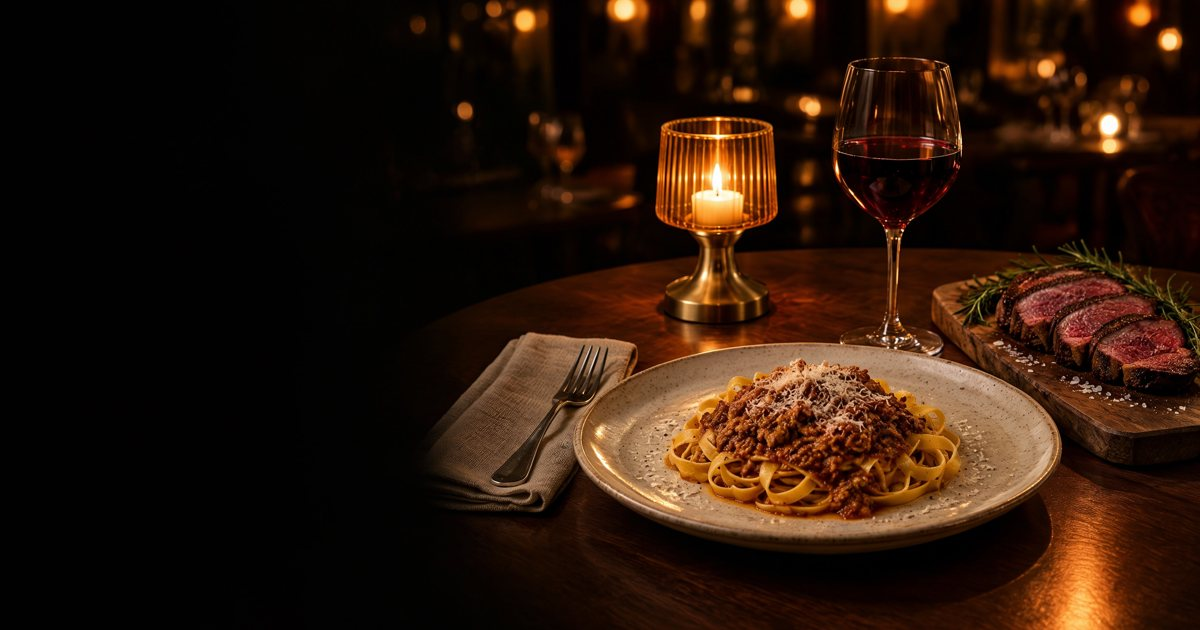
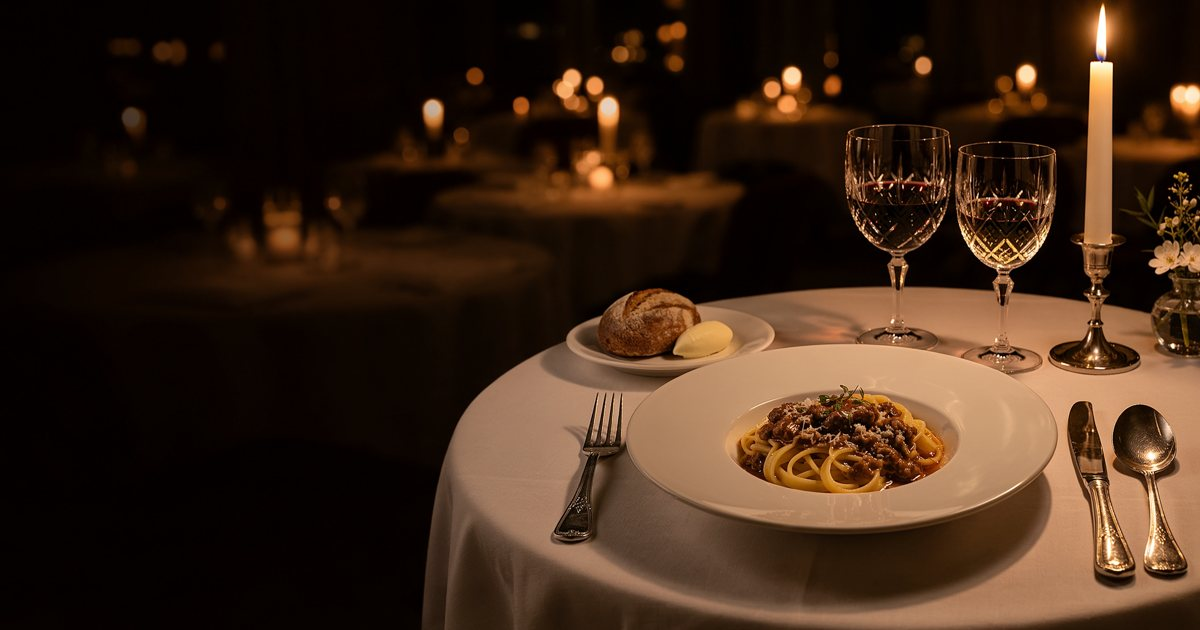
Nuova foto della sala in apertura; piatto che ruota spostato nel manifesto
Claude-Session: https://claude.ai/code/session_01WFYYR7ftMzhZcp4ZESdhHT

diff --git a/css/style.css b/css/style.css
@@ -91,9 +91,9 @@ body.menu-open{overflow:hidden}
 /* HERO */
 .hero{position:relative;min-height:100vh;min-height:100svh;display:flex;align-items:center;overflow:hidden;padding:120px 0 140px}
 .hero__bg{position:absolute;inset:0}
-.hero__bg img{width:100%;height:100%;object-fit:cover;filter:saturate(.95) brightness(.78);transform:scale(1.08);animation:heroZoom 2.6s var(--ease) forwards}
-.hero__bg img{object-position:70% 50%}
-.hero__bg::after{content:"";position:absolute;inset:0;background:linear-gradient(90deg,rgba(12,10,8,.88) 0%,rgba(12,10,8,.7) 38%,rgba(12,10,8,.15) 70%,rgba(12,10,8,.05) 100%)}
+.hero__bg img{width:100%;height:100%;object-fit:cover;filter:none;transform:scale(1.08);animation:heroZoom 2.6s var(--ease) forwards}
+.hero__bg img{object-position:68% 50%}
+.hero__bg::after{content:"";position:absolute;inset:0;background:linear-gradient(90deg,rgba(12,10,8,.7) 0%,rgba(12,10,8,.45) 40%,rgba(12,10,8,0) 65%)}
 @keyframes heroZoom{to{transform:scale(1)}}
 .hero__content{position:relative;z-index:2;width:100%;max-width:calc(var(--max) + var(--gutter)*2);margin:0 auto;padding:0 var(--gutter)}
 .hero__kicker{font-size:11.5px;letter-spacing:.32em;text-transform:uppercase;color:var(--brass);margin-bottom:28px}
@@ -108,7 +108,9 @@ body.menu-open{overflow:hidden}
 .hero__title .line [data-rise]{transform:translateY(105%)}
 .is-loaded .hero__title .line [data-rise]{transform:none}
 
-.plate{position:absolute;z-index:1;right:max(-8vw, calc((100vw - 1440px)/2 - 120px));bottom:-12vw;width:min(44vw,640px);aspect-ratio:1;pointer-events:none}
+.statement{position:relative;overflow:hidden}
+.statement__inner{position:relative;z-index:2}
+.plate{position:absolute;z-index:1;right:-14vw;top:50%;margin-top:calc(min(30vw,480px) / -2);width:min(30vw,480px);aspect-ratio:1;pointer-events:none;opacity:.9}
 .plate__img{width:100%;height:100%;border-radius:50%;box-shadow:0 40px 90px rgba(0,0,0,.6);transform:rotate(-70deg) scale(.7);opacity:0;transition:transform 2.2s var(--ease), opacity 1.2s;will-change:transform}
 .is-loaded .plate__img{opacity:1;transform:rotate(var(--plate-rot,0deg)) scale(1)}
 .plate.is-spinning .plate__img{transition:transform .2s linear}
@@ -231,17 +233,18 @@ body.menu-open{overflow:hidden}
   .brand{align-items:flex-start}
   .nav__end{display:none}
   .nav__toggle{display:block}
-  .plate{width:68vw;right:-16vw;bottom:-22vw}
+  .plate{right:-24vw}
     .footer__grid{grid-template-columns:1fr 1fr 1fr}
   .footer__brand{grid-column:1 / -1}
 }
 @media (max-width: 760px){
   body{font-size:16px}
-  .hero{align-items:flex-start;padding:128px 0 0;min-height:auto;flex-direction:column}
+  .hero{min-height:100vh;min-height:100svh;padding:110px 0 64px;flex-direction:column;justify-content:flex-end;align-items:stretch}
   .hero__title{font-size:clamp(36px,10vw,52px);max-width:none}
   .hero__lead{font-size:17px}
   .hero__actions .btn{flex:1 1 100%}
-  .plate{position:relative;right:auto;bottom:auto;width:118vw;margin:40px 0 -38vw -9vw;align-self:center}
+  .plate{position:relative;right:auto;top:auto;margin:40px auto -26vw;width:78vw}
+  .statement{padding-bottom:0}
   .hero__scroll{display:none}
   .story__grid,.brace__head,.menu__head,.menu__grid,.hours__grid,.visit__head{grid-template-columns:1fr}
   .story{padding-top:96px}
@@ -253,8 +256,8 @@ body.menu-open{overflow:hidden}
   .facts dd{font-size:13px}
   .brace__grid{height:auto}
   .brace__grid .ph{aspect-ratio:4/3}
-  .hero__bg img{object-position:72% 50%}
-  .hero__bg::after{background:rgba(12,10,8,.62)}
+  .hero__bg img{object-position:74% 50%}
+  .hero__bg::after{background:linear-gradient(180deg,rgba(12,10,8,.2) 0%,rgba(12,10,8,.5) 40%,rgba(12,10,8,.92) 100%)}
   .dishes li{grid-template-columns:1fr;gap:2px}
   .statement__title{font-size:29px}
   .footer__name{font-size:26px}

diff --git a/index.html b/index.html
@@ -19,9 +19,9 @@
 <link rel="preconnect" href="https://fonts.googleapis.com">
 <link rel="preconnect" href="https://fonts.gstatic.com" crossorigin>
 <link href="https://fonts.googleapis.com/css2?family=Bodoni+Moda:ital,opsz,wght@0,6..96,400..600;1,6..96,400..500&family=Jost:wght@300;400;500&display=swap" rel="stylesheet">
-<link rel="preload" as="image" href="img/gen-tavola-1600.webp">
+<link rel="preload" as="image" href="img/sala-sera-1600.webp" imagesrcset="img/sala-sera-800.webp 800w, img/sala-sera-1200.webp 1200w, img/sala-sera-1600.webp 1600w, img/sala-sera-2000.webp 2000w" imagesizes="100vw">
 <style>.intro{display:none}</style>
-<link rel="stylesheet" href="css/style.css?v=202611171407p">
+<link rel="stylesheet" href="css/style.css?v=202611171457s">
 <script>(function(d){d.classList.add('js');try{if(sessionStorage.getItem('itf-intro'))d.classList.add('intro-seen');sessionStorage.setItem('itf-intro','1')}catch(e){}})(document.documentElement)</script>
 <script type="application/ld+json">
 {
@@ -97,7 +97,7 @@
 <!-- HERO -->
 <section class="hero" id="top">
   <div class="hero__bg" aria-hidden="true">
-    <img src="img/gen-tavola-1600.webp" srcset="img/gen-tavola-800.webp 800w, img/gen-tavola-1200.webp 1200w, img/gen-tavola-1600.webp 1600w" sizes="100vw" alt="" fetchpriority="high">
+    <img src="img/sala-sera-1600.webp" srcset="img/sala-sera-800.webp 800w, img/sala-sera-1200.webp 1200w, img/sala-sera-1600.webp 1600w, img/sala-sera-2000.webp 2000w" sizes="100vw" alt="" fetchpriority="high">
   </div>
   <div class="hero__content">
     <p class="hero__kicker" data-rise>Ristorante · Via di Giù 56 · Lugo</p>
@@ -109,14 +109,6 @@
     <div class="hero__actions" data-rise>
       <a class="btn btn--ghost" href="#menu">Scopri il menù</a>
     </div>
-  </div>
-  <div class="plate" aria-hidden="true">
-    <svg class="steam" viewBox="0 0 200 160" preserveAspectRatio="none">
-      <path d="M60 160 C40 120 80 100 60 60 C45 30 70 15 62 0"/>
-      <path d="M100 160 C80 125 120 95 100 55 C85 25 112 12 104 0"/>
-      <path d="M140 160 C120 120 160 100 140 62 C126 32 150 16 144 0"/>
-    </svg>
-    <img class="plate__img" src="img/piatto-tagliatelle.webp" alt="" width="1000" height="1000">
   </div>
   <a class="hero__scroll" href="#storia" aria-label="Scorri alla storia del ristorante"><span></span></a>
 </section>
@@ -163,6 +155,14 @@
     <span class="ornament" aria-hidden="true"><i></i><b></b><i></i></span>
     <h2 class="statement__title" id="statement-title" data-reveal>Ogni piatto ha il suo tempo:<br><em>la sfoglia al mattino, gli arrosti nel forno per ore.</em></h2>
     <p class="statement__sign">I Tre Fratelli · Lugo di Romagna</p>
+  </div>
+  <div class="plate" aria-hidden="true">
+    <svg class="steam" viewBox="0 0 200 160" preserveAspectRatio="none">
+      <path d="M60 160 C40 120 80 100 60 60 C45 30 70 15 62 0"/>
+      <path d="M100 160 C80 125 120 95 100 55 C85 25 112 12 104 0"/>
+      <path d="M140 160 C120 120 160 100 140 62 C126 32 150 16 144 0"/>
+    </svg>
+    <img class="plate__img" src="img/piatto-tagliatelle.webp" alt="" width="1000" height="1000">
   </div>
 </section>
 
@@ -281,6 +281,6 @@
   <a href="https://wa.me/393356780073?text=Buongiorno%2C%20vorrei%20prenotare%20un%20tavolo%20da%20I%20Tre%20Fratelli." class="is-main" target="_blank" rel="noopener">Prenota su WhatsApp</a>
 </div>
 
-<script src="js/main.js?v=202611171407p" defer></script>
+<script src="js/main.js?v=202611171457s" defer></script>
 </body>
 </html>
